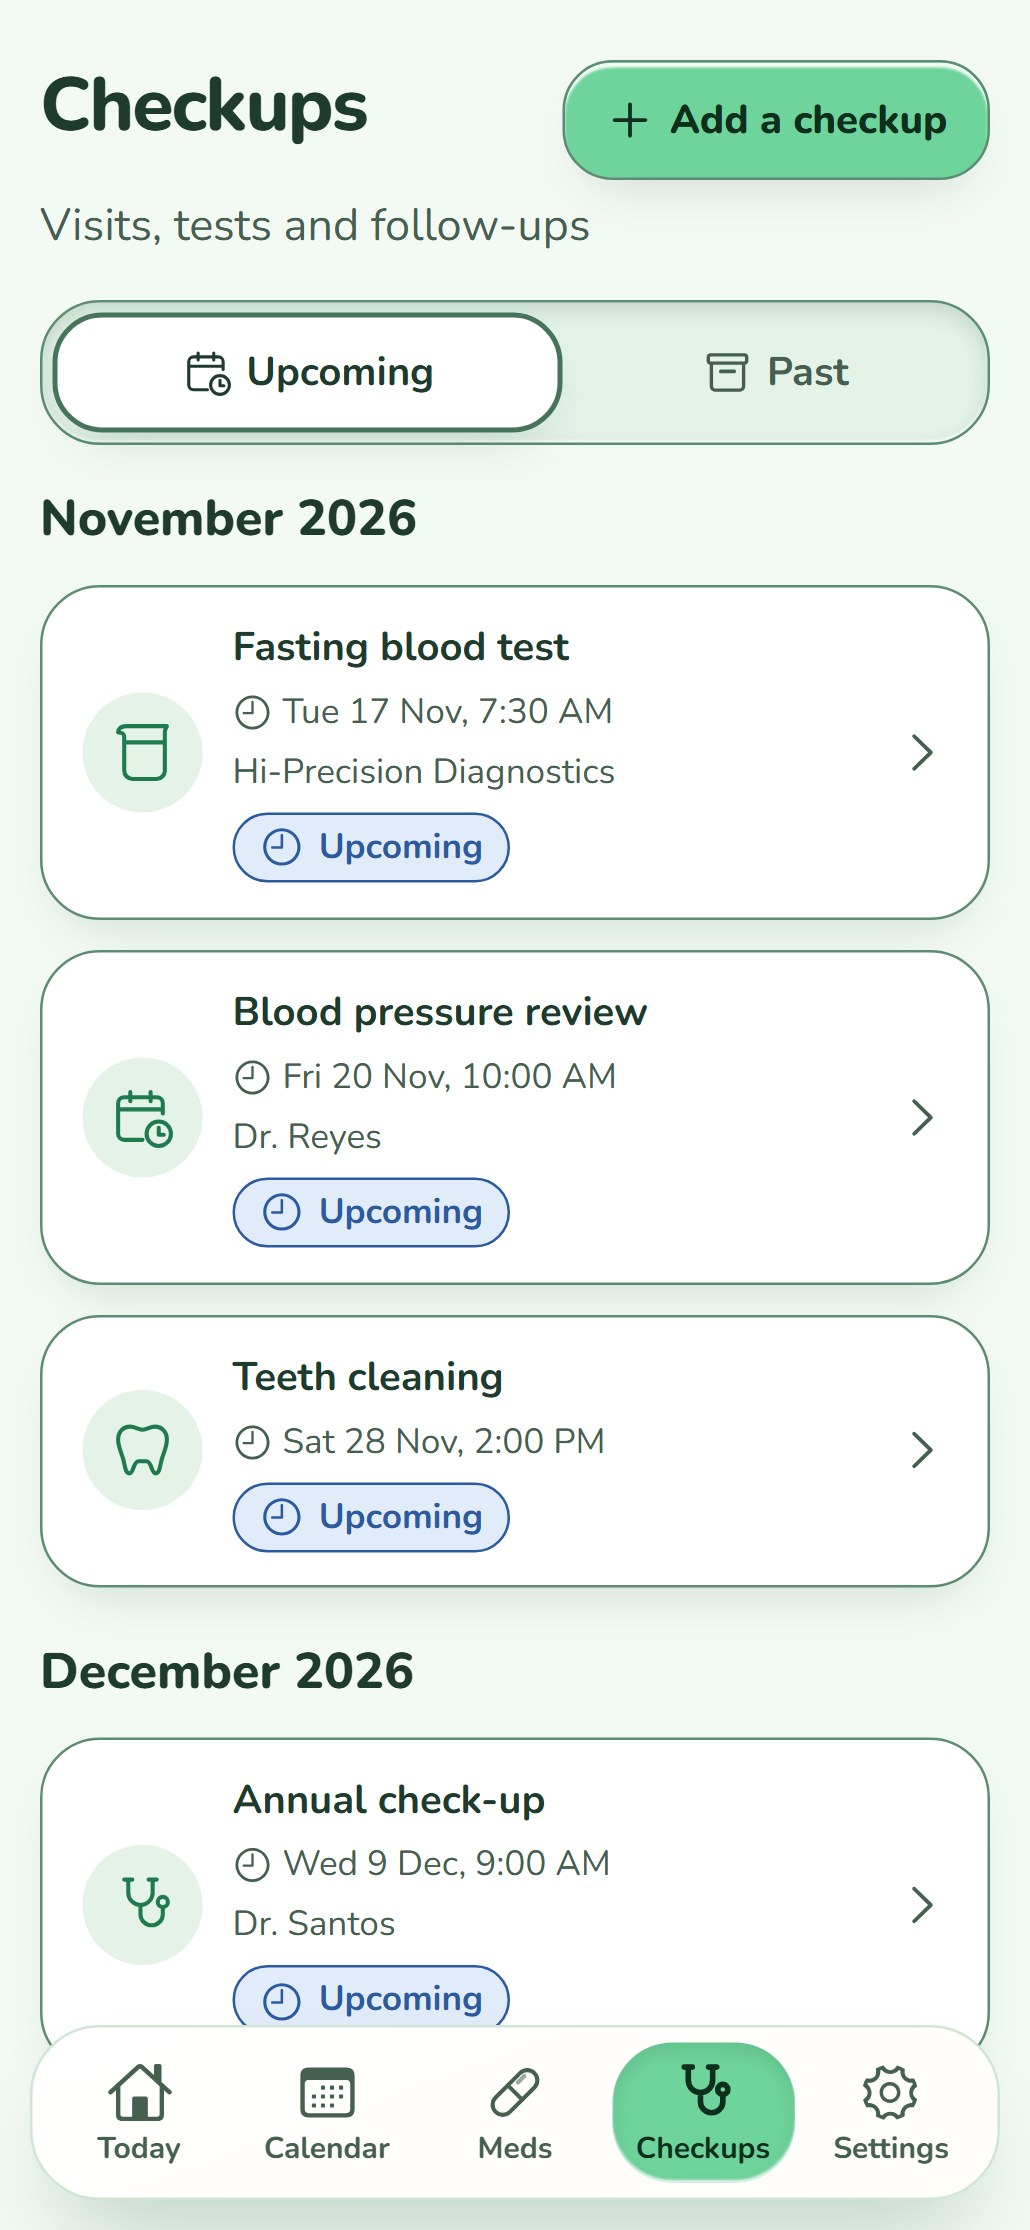
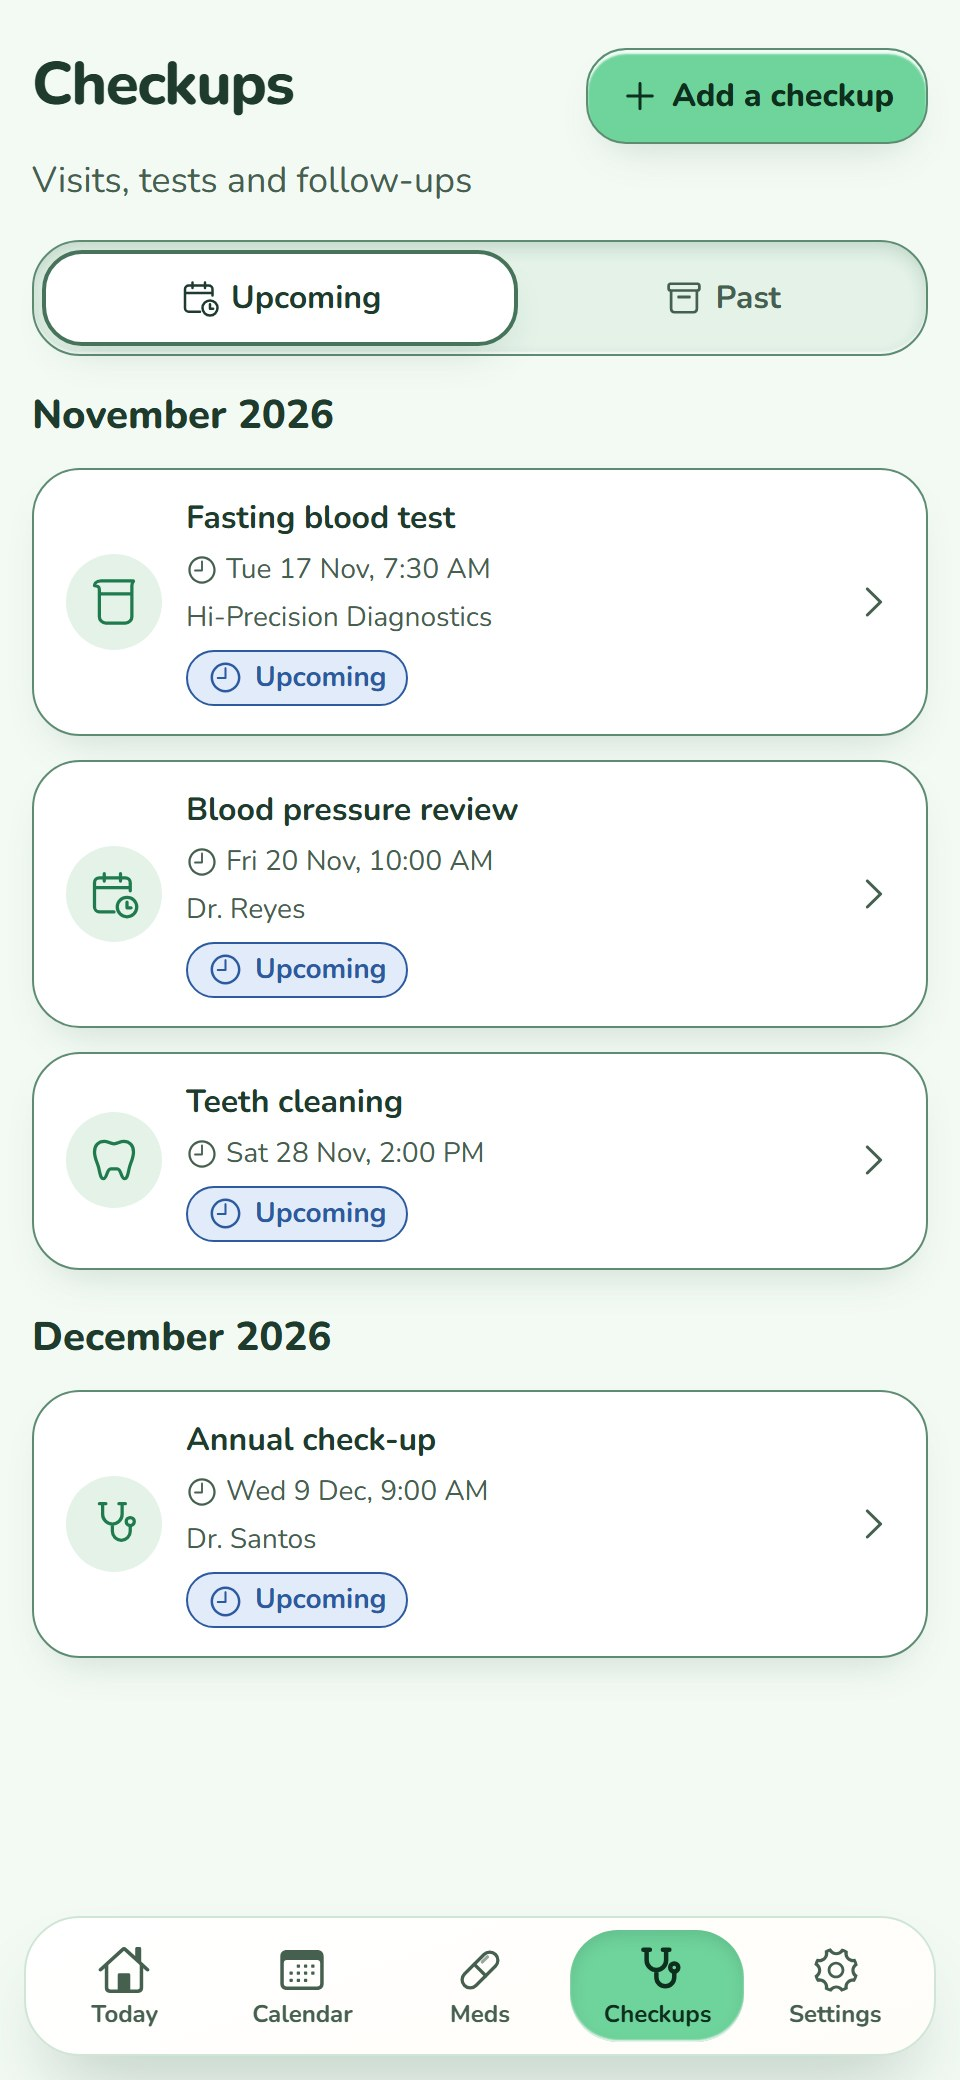
Mobile layout, real app screenshots, contact section, no pricing

diff --git a/index.html b/index.html
@@ -4,7 +4,7 @@
 <meta charset="utf-8">
 <meta name="viewport" content="width=device-width, initial-scale=1">
 <title>Minty — little nudges, big care</title>
-<meta name="description" content="Minty is a gentle pill and care reminder for Android. Doses, packs, refills and checkups — kept on your phone, never on a server. ₱100, one time.">
+<meta name="description" content="Minty is a gentle pill and care reminder for Android. Doses, packs, refills and checkups — kept on your phone, never on a server.">
 <meta name="theme-color" content="#f8f6f0">
 <meta property="og:title" content="Minty — little nudges, big care">
 <meta property="og:description" content="A gentle pill and care reminder for Android. No account, no ads, no tracking.">
@@ -24,6 +24,7 @@
     <a href="#day">How it feels</a>
     <a href="#features">Features</a>
     <a href="#privacy">Privacy</a>
+    <a href="#contact">Contact</a>
     <a class="pill-link" href="#get">Get the app</a>
   </nav>
 </header>
@@ -33,15 +34,15 @@
   <!-- HERO -->
   <div class="wrap hero">
     <div>
-      <div class="kicker mono"><span><b>●</b> Android · v1.0.1</span><span>₱100 one-time</span><span>No account</span></div>
+      <div class="kicker mono"><span><b>●</b> Android · v1.0.1</span><span>Coming soon</span><span>No account</span></div>
       <h1>Little nudges,<br><em>big care.</em></h1>
       <p class="lede">Minty is a small, kind reminder for your pills, patches and checkups. It rings when it’s time, remembers what you took, and keeps all of it on your phone.</p>
       <div class="cta">
         <a class="btn" href="#get">
           <svg viewBox="0 0 24 24" fill="currentColor" aria-hidden="true"><path d="M4.6 2.3c-.3.3-.5.8-.5 1.4v16.6c0 .6.2 1.1.5 1.4l9.3-9.7-9.3-9.7Zm10.3 8.6 2.7-2.8L6.4 1.8c-.4-.2-.8-.3-1.1-.2l9.6 9.3Zm0 2.2-9.6 9.3c.3.1.7 0 1.1-.2l11.2-6.3-2.7-2.8Zm4-3.9-3 1.7 2.9 3 3-1.7c1.1-.6 1.1-2.4 0-3Z"/></svg>
-          Get Minty · ₱100
+          Coming soon to Google Play
         </a>
-        <small>One-time purchase, no subscription<br>Android 8 and up</small>
+        <small>Android 8 and up<br>No account needed</small>
       </div>
     </div>
 
@@ -49,7 +50,7 @@
       <div class="note">one tap<br>and it’s logged
         <svg viewBox="0 0 80 50" fill="none" stroke="#4a5c51" stroke-width="1.6" stroke-linecap="round"><path d="M4 30C22 34 40 26 54 12"/><path d="M44 10l11 1-2 11"/></svg>
       </div>
-      <div class="phone"><img class="screen-img" src="assets/screens/today.jpg" alt="" width="1030" height="2230"></div>
+      <div class="phone"><img class="screen-img" src="assets/screens/today.jpg" alt="" width="960" height="2080"></div>
       <img class="peek" src="assets/minty-waving.svg" alt="">
     </div>
   </div>
@@ -103,8 +104,10 @@
         <h2>Made for real routines, <em>not perfect ones.</em></h2>
       </div>
 
+      <p class="swipe-hint mono">Swipe to see more →</p>
+      <div class="feat-track">
       <article class="feat rise">
-        <figure class="shot"><img src="assets/screens/today.jpg" alt="Minty Today screen: Losartan 50 mg due now, with Taken, Snooze, Skip and Other time buttons, and a blood test in 3 days" width="1030" height="2230"></figure>
+        <figure class="shot"><img src="assets/screens/today.jpg" alt="Minty Today screen: Losartan 50 mg due now, with Taken, Snooze, Skip and Other time buttons, and a blood test in 3 days" width="960" height="2080"></figure>
         <div class="copy">
           <span class="tag">Today</span>
           <h3>Never wonder <em>“did I take it?”</em> again.</h3>
@@ -118,7 +121,7 @@
       </article>
 
       <article class="feat flip rise">
-        <figure class="shot"><img src="assets/screens/pack.jpg" alt="Pack tracker: pill 16 of 21, every pill so far marked taken" width="1030" height="2230"></figure>
+        <figure class="shot"><img src="assets/screens/pack.jpg" alt="Pack tracker: pill 16 of 21, every pill so far marked taken" width="960" height="2080"></figure>
         <div class="copy">
           <span class="tag">Packs, patches &amp; rings</span>
           <h3>Always know <em>which pill you’re on.</em></h3>
@@ -132,7 +135,7 @@
       </article>
 
       <article class="feat rise">
-        <figure class="shot"><img src="assets/screens/calendar.jpg" alt="November calendar: taken days ticked, one missed day, checkups marked" width="1030" height="2230"></figure>
+        <figure class="shot"><img src="assets/screens/calendar.jpg" alt="November calendar: taken days ticked, one missed day, checkups marked" width="960" height="2080"></figure>
         <div class="copy">
           <span class="tag">Calendar</span>
           <h3>Your whole month, <em>in one look.</em></h3>
@@ -146,7 +149,7 @@
       </article>
 
       <article class="feat flip rise">
-        <figure class="shot"><img src="assets/screens/history.jpg" alt="History: 9-day streak, 97% of doses taken, 100% on time" width="1030" height="2230"></figure>
+        <figure class="shot"><img src="assets/screens/history.jpg" alt="History: 9-day streak, 97% of doses taken, 100% on time" width="960" height="2080"></figure>
         <div class="copy">
           <span class="tag">History</span>
           <h3>Progress you can <em>actually see.</em></h3>
@@ -160,7 +163,7 @@
       </article>
 
       <article class="feat rise">
-        <figure class="shot"><img src="assets/screens/report.jpg" alt="Doctor report: choose medications and a period, then create a PDF" width="1030" height="2230"></figure>
+        <figure class="shot"><img src="assets/screens/report.jpg" alt="Doctor report: choose medications and a period, then create a PDF" width="960" height="2080"></figure>
         <div class="copy">
           <span class="tag">Doctor report</span>
           <h3>Walk into appointments <em>prepared.</em></h3>
@@ -174,7 +177,7 @@
       </article>
 
       <article class="feat flip rise">
-        <figure class="shot"><img src="assets/screens/checkups.jpg" alt="Checkups: fasting blood test, blood pressure review, teeth cleaning, annual check-up" width="1030" height="2230"></figure>
+        <figure class="shot"><img src="assets/screens/checkups.jpg" alt="Checkups: fasting blood test, blood pressure review, teeth cleaning, annual check-up" width="960" height="2080"></figure>
         <div class="copy">
           <span class="tag">Checkups</span>
           <h3>Visits, tests and follow-ups, <em>remembered.</em></h3>
@@ -186,6 +189,7 @@
           </ul>
         </div>
       </article>
+      </div>
 
       <div class="also rise">
         <div class="mono">Also inside</div>
@@ -236,7 +240,7 @@
     <div class="wrap">
       <div class="head rise">
         <div class="mono">Get the app</div>
-        <h2>One small price. <em>No subscription.</em></h2>
+        <h2>Coming soon to <em>Google Play.</em></h2>
       </div>
       <div class="get">
         <div class="ticket rise">
@@ -244,12 +248,11 @@
             <img src="assets/icon-192.png" alt="">
             <div><h3>Minty</h3><div class="meta mono">Pill &amp; care reminder</div></div>
           </div>
-          <div class="price"><b>₱100</b><span>one-time purchase</span></div>
           <dl class="mono">
             <div><dt>Version</dt><dd>1.0.1</dd></div>
             <div><dt>Needs</dt><dd>Android 8+</dd></div>
             <div><dt>Ads</dt><dd>None</dd></div>
-            <div><dt>Subscription</dt><dd>None</dd></div>
+            <div><dt>Account</dt><dd>Not needed</dd></div>
           </dl>
           <a class="btn soon" href="#get" aria-disabled="true">
             <svg viewBox="0 0 24 24" fill="currentColor" aria-hidden="true"><path d="M4.6 2.3c-.3.3-.5.8-.5 1.4v16.6c0 .6.2 1.1.5 1.4l9.3-9.7-9.3-9.7Zm10.3 8.6 2.7-2.8L6.4 1.8c-.4-.2-.8-.3-1.1-.2l9.6 9.3Zm0 2.2-9.6 9.3c.3.1.7 0 1.1-.2l11.2-6.3-2.7-2.8Zm4-3.9-3 1.7 2.9 3 3-1.7c1.1-.6 1.1-2.4 0-3Z"/></svg>
@@ -257,11 +260,11 @@
           </a>
         </div>
         <div class="rise">
-          <h3 class="side-title">Why it costs ₱100</h3>
-          <p class="side-text">Most “free” health apps pay their bills with ads or by selling what they learn about you. Minty doesn’t do either. You pay once, and that’s the whole deal — your health data stays yours.</p>
+          <h3 class="side-title">How to get it</h3>
+          <p class="side-text">Minty is getting ready for the Google Play Store. Once it’s live, the button here will take you straight to it.</p>
           <ol class="steps">
             <li><div><b>Find Minty on Google Play</b><p>Search “Minty pill reminder”, or tap the button here once it’s live.</p></div></li>
-            <li><div><b>Pay once — ₱100</b><p>GCash, card or Play balance. Every future update is included.</p></div></li>
+            <li><div><b>Tap Install</b><p>It installs like any other app from the Play Store.</p></div></li>
             <li><div><b>Add your first medication</b><p>Allow notifications and alarms so your reminders can ring.</p></div></li>
           </ol>
         </div>
@@ -274,11 +277,51 @@
     <div class="wrap faq-wrap">
       <div class="mono" style="color:var(--deep);padding-top:26px">Questions</div>
       <div>
-        <details><summary>How much does Minty cost?</summary><p>₱100, paid once on Google Play. No subscription, no in-app ads, and future updates are included.</p></details>
         <details><summary>When can I get it?</summary><p>Minty is coming to Google Play soon. Check back here — the button above will take you straight to it.</p></details>
         <details><summary>What about iPhone?</summary><p>Not yet. Minty is Android-only for now; an iPhone version is planned.</p></details>
         <details><summary>Does Minty give medical advice?</summary><p>No. Minty reminds you and keeps a log of the plan you and your doctor already have. It never suggests, calculates or changes a dose, and it isn’t a medical device.</p></details>
         <details><summary>What happens if I lose my phone?</summary><p>Your data lives only on the phone, so make a backup from Settings now and then. The backup file is encrypted with a password you choose.</p></details>
+      </div>
+    </div>
+  </section>
+
+
+  <!-- CONTACT -->
+  <section class="contact" id="contact">
+    <div class="wrap">
+      <div class="head rise">
+        <div class="mono">Contact us</div>
+        <h2>Questions, ideas or a bug? <em>Say hi.</em></h2>
+      </div>
+      <div class="contact-grid rise">
+        <div class="contact-side">
+          <img src="assets/minty-waving.svg" alt="" width="120" height="120">
+          <p>We read every message. Tell us what works, what doesn’t, or what you wish Minty could do.</p>
+          <a class="mail-link" id="mail-link" href="#">
+            <svg viewBox="0 0 24 24" fill="none" stroke="currentColor" stroke-width="2" stroke-linecap="round" stroke-linejoin="round" aria-hidden="true"><rect x="3" y="5" width="18" height="14" rx="3"/><path d="m4 7 8 6 8-6"/></svg>
+            <span id="mail-text"></span>
+          </a>
+          <p class="note-small">Please don’t send medical details or photos of prescriptions.</p>
+        </div>
+        <form class="contact-form" id="contact-form">
+          <label>Your name<input name="name" autocomplete="name" required></label>
+          <label>Your email<input name="email" type="email" autocomplete="email" required></label>
+          <label>Topic
+            <select name="topic">
+              <option>General question</option>
+              <option>Report a problem</option>
+              <option>Feature idea</option>
+              <option>Partnership or press</option>
+            </select>
+          </label>
+          <label>Message<textarea name="message" rows="5" required></textarea></label>
+          <button class="btn" type="submit">
+            <svg viewBox="0 0 24 24" fill="none" stroke="currentColor" stroke-width="2" stroke-linecap="round" stroke-linejoin="round" aria-hidden="true"><path d="M22 2 11 13"/><path d="M22 2 15 22l-4-9-9-4 20-7Z"/></svg>
+            Send message
+          </button>
+          <p class="soon-note">Our contact email is being set up — check back soon.</p>
+          <p class="note-small">Opens your email app with the message ready to send.</p>
+        </form>
       </div>
     </div>
   </section>
@@ -289,7 +332,7 @@
   <div class="wrap">
     <div class="foot">
       <span>© 2026 Minty. Made with care.</span>
-      <nav><a href="#get">Get Minty</a><a href="privacy.html">Privacy policy</a><a href="#top">Back to top ↑</a></nav>
+      <nav><a href="#get">Get Minty</a><a href="#contact">Contact</a><a href="privacy.html">Privacy policy</a><a href="#top">Back to top ↑</a></nav>
     </div>
     <div class="word" aria-hidden="true">minty<img src="assets/minty-happy.svg" alt=""></div>
   </div>
@@ -301,6 +344,18 @@
     if (e.isIntersecting) { e.target.classList.add('in'); io.unobserve(e.target); }
   }), { rootMargin: '0px 0px -8% 0px' });
   document.querySelectorAll('.rise').forEach((el) => io.observe(el));
+// Contact: set your public contact email here.
+  const CONTACT_EMAIL = 'CONTACT_EMAIL_HERE';
+  if (CONTACT_EMAIL.includes('_HERE')) document.querySelector('.contact').classList.add('unset');
+  document.getElementById('mail-text').textContent = CONTACT_EMAIL;
+  document.getElementById('mail-link').href = 'mailto:' + CONTACT_EMAIL;
+  document.getElementById('contact-form').addEventListener('submit', (e) => {
+    e.preventDefault();
+    const f = new FormData(e.target);
+    const subject = 'Minty: ' + f.get('topic');
+    const body = f.get('message') + '\n\n— ' + f.get('name') + ' (' + f.get('email') + ')';
+    location.href = 'mailto:' + CONTACT_EMAIL + '?subject=' + encodeURIComponent(subject) + '&body=' + encodeURIComponent(body);
+  });
 </script>
 </body>
 </html>

diff --git a/style.css b/style.css
@@ -249,10 +249,6 @@ section { padding: clamp(70px, 10vw, 130px) 0; }
   background: var(--card); border-radius: 28px; padding: 30px;
   border: 1px solid var(--rule); position: relative;
 }
-.ticket::after { /* perforation */
-  content: ""; position: absolute; left: 26px; right: 26px; bottom: 112px;
-  border-top: 1.5px dashed var(--rule);
-}
 .ticket .top { display: flex; align-items: center; gap: 16px; }
 .ticket .top img { width: 64px; height: 64px; border-radius: 18px; }
 .ticket h3 { font-family: var(--serif); font-weight: 600; font-size: 34px; line-height: 1; margin: 0; }
@@ -391,8 +387,118 @@ footer { padding: 60px 0 0; overflow: hidden; border-top: 1px solid var(--ink); 
 
 /* real screenshots */
 .phone .screen-img { width: 100%; height: 100%; object-fit: cover; object-position: top; border-radius: 36px; display: block; background: #f2f9f3; }
-.phone { aspect-ratio: 412 / 892; padding: 10px; }
-.shot { aspect-ratio: 412 / 892; }
+.phone { aspect-ratio: 480 / 1040; padding: 10px; }
+.shot { aspect-ratio: 480 / 1040; }
 
 .stage .peek { right: -58px; bottom: auto; top: 6%; transform: rotate(14deg); }
 @media (max-width: 420px) { .stage .peek { right: -26px; } }
+
+/* ================= mobile polish ================= */
+.btn { white-space: nowrap; }
+.swipe-hint { display: none; }
+.ticket .btn { margin-top: 8px; }
+.ticket dl { padding-bottom: 22px; border-bottom: 1.5px dashed var(--rule); margin-bottom: 22px; }
+
+@media (max-width: 860px) {
+  section { padding: 64px 0; }
+  .head { margin-bottom: 28px; }
+  .hero { gap: 48px; padding-bottom: 56px; }
+  .stage { margin: 0 auto; width: min(250px, 66vw); }
+  .stage .peek { width: 84px; right: -40px; }
+
+  /* features: swipeable cards */
+  .swipe-hint { display: block; color: var(--ink-2); margin: -8px 0 14px; }
+  .feat-track {
+    display: flex; gap: 14px; overflow-x: auto; scroll-snap-type: x mandatory;
+    margin: 0 calc(-1 * var(--gut)); padding: 4px var(--gut) 20px;
+    scrollbar-width: none; -webkit-overflow-scrolling: touch;
+  }
+  .feat-track::-webkit-scrollbar { display: none; }
+  .feat-track .feat, .feat-track .feat.flip {
+    flex: 0 0 86%; scroll-snap-align: center;
+    display: flex; flex-direction: column; gap: 18px;
+    padding: 22px 18px 24px; margin: 0;
+    background: var(--paper); border: 1px solid var(--rule); border-radius: 28px;
+    opacity: 1; transform: none;
+  }
+  .feat-track .shot { width: 190px; transform: none !important; border-radius: 30px; padding: 7px; order: 0 !important; }
+  .feat-track .shot img { border-radius: 24px; }
+  .feat h3 { font-size: 25px; margin: 12px 0 10px; }
+  .why { font-size: 16px; margin-bottom: 14px; }
+  .feat li { font-size: 15px; padding-left: 26px; }
+  .feat li::before { width: 17px; height: 17px; top: 3px; background-size: 11px; }
+  .also { margin-top: 28px; padding-top: 26px; }
+  .also li { font-size: 16px; }
+
+  .facts b { font-size: 30px; }
+  .facts span { font-size: 15px; }
+}
+
+@media (max-width: 560px) {
+  .hero .kicker { font-size: 12px; gap: 10px; }
+  .hero .kicker span:last-child { display: none; }
+
+  /* timeline: compact 2 x 2 */
+  .day { grid-template-columns: 1fr 1fr; gap: 26px 16px; border-top: 0; }
+  .day .moment, .day .moment + .moment {
+    padding: 18px 0 0; margin: 0; border-left: 0; border-top: 1px solid var(--ink);
+  }
+  .day .moment .dot { left: 0 !important; }
+  .moment time { font-size: 34px; }
+  .moment time small { font-size: 12px; }
+  .moment h3 { font-size: 16px; margin: 10px 0 4px; }
+  .moment p { font-size: 14.5px; line-height: 1.5; }
+
+  /* who: compact 2 x 2 */
+  .who-grid { grid-template-columns: 1fr 1fr; gap: 24px 16px; border-top: 0; }
+  .who-grid div, .who-grid div + div { padding: 16px 0 0; border-left: 0; border-top: 1px solid var(--ink); }
+  .who-grid h3 { font-size: 18px; }
+  .who-grid p { font-size: 14.5px; line-height: 1.5; }
+
+  .dark .grid p { font-size: 15.5px; }
+  .dark .sleepy { width: 74px; top: 40px; }
+  .ticket { padding: 22px; }
+  .price b { font-size: 46px; }
+  .ticket .btn { font-size: 15.5px; padding: 15px 18px; }
+  .steps p, .faq details p { font-size: 15.5px; }
+}
+
+/* ---------- contact ---------- */
+.contact { background: var(--card); border-top: 1px solid var(--rule); }
+.contact-grid { display: grid; grid-template-columns: .8fr 1.2fr; gap: clamp(30px, 6vw, 80px); align-items: start; }
+.contact-side img { width: 110px; height: auto; margin-bottom: 18px; }
+.contact-side p { color: var(--ink-2); font-size: 18px; margin: 0 0 22px; max-width: 26em; }
+.mail-link {
+  display: inline-flex; align-items: center; gap: 10px; text-decoration: none;
+  font-weight: 600; font-size: 18px; color: var(--deep);
+  padding: 12px 18px; border-radius: 999px; background: var(--mint-2);
+  word-break: break-all;
+}
+.mail-link svg { width: 20px; height: 20px; flex: none; }
+.note-small { font-size: 14.5px !important; color: var(--ink-3) !important; margin-top: 16px !important; }
+.contact-form { display: grid; gap: 16px; background: var(--paper); border: 1px solid var(--rule); border-radius: 28px; padding: clamp(20px, 3vw, 32px); }
+.contact-form label { display: grid; gap: 6px; font-size: 15px; font-weight: 600; color: var(--ink); }
+.contact-form input, .contact-form select, .contact-form textarea {
+  font: 400 17px/1.4 var(--sans); color: var(--ink);
+  background: #fff; border: 1.5px solid var(--rule); border-radius: 14px; padding: 13px 14px;
+  width: 100%; transition: border-color .2s, box-shadow .2s;
+}
+.contact-form textarea { resize: vertical; min-height: 120px; }
+.contact-form input:focus, .contact-form select:focus, .contact-form textarea:focus {
+  outline: none; border-color: var(--deep); box-shadow: 0 0 0 4px var(--mint-2);
+}
+.contact-form .btn { justify-content: center; border: 0; cursor: pointer; font-family: var(--sans); }
+@media (max-width: 860px) {
+  .contact-grid { grid-template-columns: 1fr; }
+  .contact-side img { width: 80px; }
+  .contact-side p { font-size: 16.5px; }
+}
+
+/* frames follow the screenshot's own shape: no side cropping */
+.phone, .shot { aspect-ratio: auto !important; height: auto; }
+.phone .screen-img, .shot img { height: auto !important; aspect-ratio: 480 / 1040; object-fit: contain; }
+.contact.unset .mail-link, .contact.unset .contact-form .btn, .contact.unset .contact-form > .note-small { display: none; }
+.contact .soon-note { display: none; }
+.contact.unset .soon-note { display: block; font-weight: 600; color: var(--deep); }
+
+@media (max-width: 860px) { .feat-track .shot { width: min(240px, 66vw); } }
